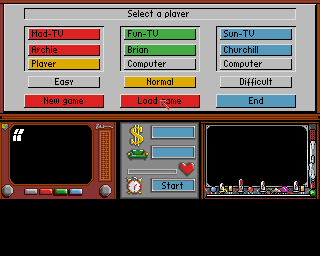
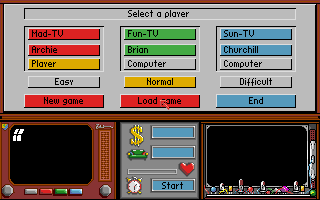
Finestra e screenshot a 320x200, l'area realmente usata dal gioco
Mad TV usa una finestra video di 200 righe (DIWSTRT/DIWSTOP $2C-$F4) in
tutte le schermate provate: le ultime 56 righe PAL erano sempre nere.
La finestra ora è 960x600 alla scala 3 e gli screenshot sono 320x200.
--full-height mostra le 256 righe PAL; se il gioco disegnasse oltre la
riga 200 la finestra lo segnala in console.

Claude-Session: https://claude.ai/code/session_01VekgmQuNyVpmsEAMoRSfNe

diff --git a/src/main.rs b/src/main.rs
@@ -22,6 +22,7 @@ F11 tenuto premuto = avanti veloce, F12 = screenshot).
                      i dischi vengono riconosciuti dal nome di volume (MTV1, MTV2)
   --save-dir DIR     cartella per i salvataggi del gioco (default: save)
   --scale N          ingrandimento della finestra (default: 3)
+  --full-height      mostra tutte le 256 righe PAL (default: le 200 usate dal gioco)
   --mouse-ratio R    conteggi del mouse Amiga per pixel (default: 1.0)
   --cpu-speed P      velocità della CPU in % di un A500, oppure auto
                      (default: auto con la finestra, 100 in headless).
@@ -50,6 +51,7 @@ struct Opts {
     adf_dir: PathBuf,
     save_dir: PathBuf,
     scale: usize,
+    full_height: bool,
     mouse_ratio: f32,
     cpu_speed: Option<String>,
     headless: bool,
@@ -68,6 +70,7 @@ fn parse_args() -> Result<Opts, String> {
         adf_dir: "adf".into(),
         save_dir: "save".into(),
         scale: 3,
+        full_height: false,
         mouse_ratio: 1.0,
         cpu_speed: None,
         headless: false,
@@ -89,6 +92,7 @@ fn parse_args() -> Result<Opts, String> {
             "--scale" => o.scale = val()?.parse().map_err(|e| format!("{e}"))?,
             "--mouse-ratio" => o.mouse_ratio = val()?.parse().map_err(|e| format!("{e}"))?,
             "--headless" => o.headless = true,
+            "--full-height" => o.full_height = true,
             "--cpu-speed" => o.cpu_speed = Some(val()?),
             "--frames" => o.frames = val()?.parse().map_err(|e| format!("{e}"))?,
             "--max-instr" => o.max_instr = val()?.parse().map_err(|e| format!("{e}"))?,
@@ -212,6 +216,9 @@ fn main() {
             }
         }
     }
+    if o.full_height {
+        m.bus.custom.display.visible_rows = render::HEIGHT;
+    }
     m.boot_os();
     // La startup-sequence originale lancia "mtv s".
     m.load_executable(&exe, "s").expect("eseguibile non valido");
@@ -282,12 +289,13 @@ fn main() {
         std::fs::create_dir_all(&o.shot_dir).ok();
         let p = o.shot_dir.join("final.png");
         let d = &m.bus.custom.display;
-        match render::save_png(&d.front, &p) {
+        match d.save_png(&p) {
             Ok(()) => println!(
-                "schermata finale: {} ({} bitplane, {} righe attive)",
+                "schermata finale: {} ({} bitplane, {} righe attive; righe usate nella sessione: {:?})",
                 p.display(),
                 d.last_planes,
-                d.last_active_lines
+                d.last_active_lines,
+                d.used_rows
             ),
             Err(e) => println!("impossibile salvare lo screenshot: {e}"),
         }
@@ -324,7 +332,7 @@ fn apply_actions(m: &mut Machine, o: &Opts, next: &mut usize, target: &mut Optio
             Action::Shot(name) => {
                 std::fs::create_dir_all(&o.shot_dir).ok();
                 let p = o.shot_dir.join(format!("{name}.png"));
-                let _ = render::save_png(&c.display.front, &p);
+                let _ = c.display.save_png(&p);
                 println!("[frame {frame}] screenshot {}", p.display());
             }
             Action::Click | Action::Key(_) | Action::Type(_) => {} // già espanse
@@ -363,10 +371,11 @@ fn run_headless(m: &mut Machine, o: &Opts) -> StopReason {
         let f = m.bus.custom.frame;
         if o.shot_every > 0 && f.is_multiple_of(o.shot_every) {
             std::fs::create_dir_all(&o.shot_dir).ok();
-            let _ = render::save_png(
-                &m.bus.custom.display.front,
-                &o.shot_dir.join(format!("frame{f:05}.png")),
-            );
+            let _ = m
+                .bus
+                .custom
+                .display
+                .save_png(&o.shot_dir.join(format!("frame{f:05}.png")));
         }
     }
 }

diff --git a/src/render.rs b/src/render.rs
@@ -8,7 +8,8 @@
 //!   puntatore a metà schermo funzionano senza casi speciali;
 //! - converte i pixel con la palette in vigore in quel momento.
 //!
-//! L'immagine è 320×256 (risoluzione lores, righe PAL da $2C a $12B). Le righe
+//! L'immagine è 320×256 (risoluzione lores, righe PAL da $2C a $12B); di
+//! default se ne mostrano le prime 200, le sole che Mad TV usa. Le righe
 //! hires vengono ridotte prendendo un pixel ogni due (Mad TV è tutto lores).
 //! Sprite: gli 8 sprite hardware sono letti via DMA (POS/CTL e coppie di
 //! parole dati) e disegnati sopra il playfield, anche collegati a 15 colori.
@@ -17,6 +18,9 @@
 
 pub const WIDTH: usize = 320;
 pub const HEIGHT: usize = 256;
+/// Righe mostrate di default: Mad TV usa una finestra video di 200 righe
+/// (DIWSTRT/DIWSTOP da $2C a $F4) in tutte le schermate; le altre sono nere.
+pub const GAME_HEIGHT: usize = 200;
 /// Prima riga PAL mostrata (il valore standard di DIWSTRT).
 pub const FIRST_LINE: u32 = 0x2C;
 
@@ -50,6 +54,11 @@ pub struct Display {
     planes: u8,
     pub ham_seen: bool,
     pub hires_seen: bool,
+    /// Prima e ultima riga dell'immagine (0..256) in cui c'è stato qualcosa da
+    /// disegnare (bitplane attivi), su tutta la sessione.
+    pub used_rows: Option<(usize, usize)>,
+    /// Righe da mostrare e salvare negli screenshot (200 o 256).
+    pub visible_rows: usize,
 }
 
 impl Default for Display {
@@ -71,6 +80,8 @@ impl Display {
             planes: 0,
             ham_seen: false,
             hires_seen: false,
+            used_rows: None,
+            visible_rows: GAME_HEIGHT,
         }
     }
 
@@ -270,6 +281,11 @@ impl Display {
 
         let Some(r) = row else { return };
         self.active_lines += 1;
+        let ry = r / WIDTH;
+        self.used_rows = Some(match self.used_rows {
+            Some((a, b)) => (a.min(ry), b.max(ry)),
+            None => (ry, ry),
+        });
         self.planes = self.planes.max(planes as u8);
 
         let mut palette = [0u32; 64];
@@ -328,7 +344,14 @@ fn rgb12(v: u16) -> u32 {
     (r << 16) | (g << 8) | b
 }
 
-/// Salva un frame (0x00RRGGBB) in PNG.
+impl Display {
+    /// Salva l'ultimo frame completo in PNG (solo le righe visibili).
+    pub fn save_png(&self, path: &std::path::Path) -> std::io::Result<()> {
+        save_png(&self.front[..WIDTH * self.visible_rows], path)
+    }
+}
+
+/// Salva un'immagine larga WIDTH pixel (0x00RRGGBB) in PNG.
 pub fn save_png(pixels: &[u32], path: &std::path::Path) -> std::io::Result<()> {
     let mut rgb = Vec::with_capacity(pixels.len() * 3);
     for p in pixels {
@@ -336,7 +359,7 @@ pub fn save_png(pixels: &[u32], path: &std::path::Path) -> std::io::Result<()> {
     }
     let file = std::fs::File::create(path)?;
     let w = std::io::BufWriter::new(file);
-    let mut enc = png::Encoder::new(w, WIDTH as u32, HEIGHT as u32);
+    let mut enc = png::Encoder::new(w, WIDTH as u32, (pixels.len() / WIDTH) as u32);
     enc.set_color(png::ColorType::Rgb);
     enc.set_depth(png::BitDepth::Eight);
     let mut writer = enc.write_header().map_err(std::io::Error::other)?;

diff --git a/src/window.rs b/src/window.rs
@@ -11,7 +11,7 @@
 
 use crate::input;
 use crate::machine::{Machine, StopReason};
-use crate::render::{self, HEIGHT, WIDTH};
+use crate::render::WIDTH;
 use minifb::{Key, KeyRepeat, MouseButton, MouseMode, Window, WindowOptions};
 use std::path::PathBuf;
 
@@ -25,7 +25,8 @@ pub struct WindowOpts {
 /// Esegue il gioco in una finestra finché non viene chiusa o il programma termina.
 pub fn run(m: &mut Machine, o: &WindowOpts) -> Option<StopReason> {
     let s = o.scale.max(1);
-    let (w, h) = (WIDTH * s, HEIGHT * s);
+    let rows = m.bus.custom.display.visible_rows;
+    let (w, h) = (WIDTH * s, rows * s);
     let mut win = match Window::new("Mad TV", w, h, WindowOptions::default()) {
         Ok(w) => w,
         Err(e) => {
@@ -38,6 +39,7 @@ pub fn run(m: &mut Machine, o: &WindowOpts) -> Option<StopReason> {
     let mut buf = vec![0u32; w * h];
     let mut last_pos: Option<(f32, f32)> = None;
     let mut shots = 0u32;
+    let mut warned_rows = false;
 
     while win.is_open() {
         // --- input ---
@@ -91,7 +93,7 @@ pub fn run(m: &mut Machine, o: &WindowOpts) -> Option<StopReason> {
                 std::fs::create_dir_all(&o.shot_dir).ok();
                 shots += 1;
                 let p = o.shot_dir.join(format!("screenshot{shots:03}.png"));
-                if render::save_png(&m.bus.custom.display.front, &p).is_ok() {
+                if m.bus.custom.display.save_png(&p).is_ok() {
                     println!("screenshot: {}", p.display());
                 }
                 continue;
@@ -123,9 +125,21 @@ pub fn run(m: &mut Machine, o: &WindowOpts) -> Option<StopReason> {
             }
         }
 
+        // Se una schermata disegnasse oltre le righe mostrate, avvisa una volta.
+        if !warned_rows {
+            if let Some((_, last)) = m.bus.custom.display.used_rows {
+                if last >= rows {
+                    eprintln!(
+                        "nota: il gioco ha disegnato oltre la riga {rows}; avvia con --full-height per vederla"
+                    );
+                    warned_rows = true;
+                }
+            }
+        }
+
         // --- presentazione (ingrandimento a pixel interi) ---
         let src = &m.bus.custom.display.front;
-        for y in 0..HEIGHT {
+        for y in 0..rows {
             let srow = &src[y * WIDTH..(y + 1) * WIDTH];
             let drow = &mut buf[y * s * w..(y * s + 1) * w];
             for (x, &p) in srow.iter().enumerate() {

diff --git a/examples/mouse_sweep.rs b/examples/mouse_sweep.rs
@@ -64,18 +64,21 @@ fn main() {
             go(&mut m, (150, 60), 120);
             if !naive {
                 let p = format!("/tmp/seq{i}.png");
-                madtv::render::save_png(&m.bus.custom.display.front, std::path::Path::new(&p))
+                m.bus
+                    .custom
+                    .display
+                    .save_png(std::path::Path::new(&p))
                     .unwrap();
             }
             click(&mut m);
         }
         go(&mut m, (10, 40), 60);
         if !naive {
-            madtv::render::save_png(
-                &m.bus.custom.display.front,
-                std::path::Path::new("/tmp/sweep_start.png"),
-            )
-            .unwrap();
+            m.bus
+                .custom
+                .display
+                .save_png(std::path::Path::new("/tmp/sweep_start.png"))
+                .unwrap();
         }
         let (mut jumps, mut maxover) = (0, 0);
         let (mut busy, mut busy_run) = (0, 0);
@@ -108,7 +111,10 @@ fn main() {
             }
             if !naive && (f == 60 || f == 130 || f == 400) {
                 let p = format!("/tmp/sweep{f}.png");
-                madtv::render::save_png(&m.bus.custom.display.front, std::path::Path::new(&p))
+                m.bus
+                    .custom
+                    .display
+                    .save_png(std::path::Path::new(&p))
                     .unwrap();
             }
             let d = if naive {

diff --git a/NOTES.md b/NOTES.md
@@ -5,8 +5,9 @@ scoperte, decisioni e prossimi passi. Va aggiornato alla fine di ogni sessione.
 
 ## Stato attuale (fine fase 2, 1 novembre 2026)
 
-- **Giocabile in una finestra** (minifb, 50 Hz, scala 3 di default), con mouse
-  e tastiera. Provato via script: nuova partita, vista dell'edificio, dialoghi
+- **Giocabile in una finestra** (minifb, 50 Hz, 960×600 di default), con mouse
+  e tastiera: confermato da Pam su Windows con una partita vera (palinsesto,
+  programmi in onda, orologio). Provato via script: nuova partita, vista dell'edificio, dialoghi
   del capo, modifica dei nomi dei giocatori con la tastiera.
 - Il caricamento iniziale (circa 25 s a velocità reale) viene accelerato in
   automatico finché lo schermo è nero; F11 tenuto premuto = avanti veloce.
@@ -132,6 +133,10 @@ Hardware usato direttamente:
   `v u3.lbm` (visualizzatore IFF): per ora eseguiamo solo `mtv s`.
 - Delay() salta i frame in un colpo solo.
 - La finestra non è ridimensionabile (scala fissa scelta all'avvio).
+- Altezza: la finestra e gli screenshot mostrano 200 righe (320×200), le sole
+  che il gioco usa in tutte le schermate provate (DIWSTRT/DIWSTOP $2C-$F4);
+  `--full-height` mostra le 256 righe PAL. Se il gioco disegnasse oltre, la
+  finestra lo segnala in console.
 
 ## Prossimi passi (fase 3: audio)
 

diff --git a/README.md b/README.md
@@ -68,7 +68,8 @@ Opzioni utili (`madtv --help` per l'elenco completo):
 
 | Opzione | Effetto |
 |---|---|
-| `--scale N` | ingrandimento della finestra (default 3, cioè 960×768) |
+| `--scale N` | ingrandimento della finestra (default 3, cioè 960×600) |
+| `--full-height` | mostra tutte le 256 righe PAL invece delle 200 usate dal gioco |
 | `--cpu-speed P` | velocità della CPU: `auto` (default nella finestra) o una percentuale fissa di un A500, es. `300` |
 | `--headless --frames N` | nessuna finestra: esegue N frame (50 = 1 secondo) e salva `shots\final.png` |
 | `--script "1290:goto 55 101; 1320:click; 2000:shot capo"` | azioni automatiche a frame stabiliti (anche da file: `--script @scripts\nuova-partita.txt`) |
